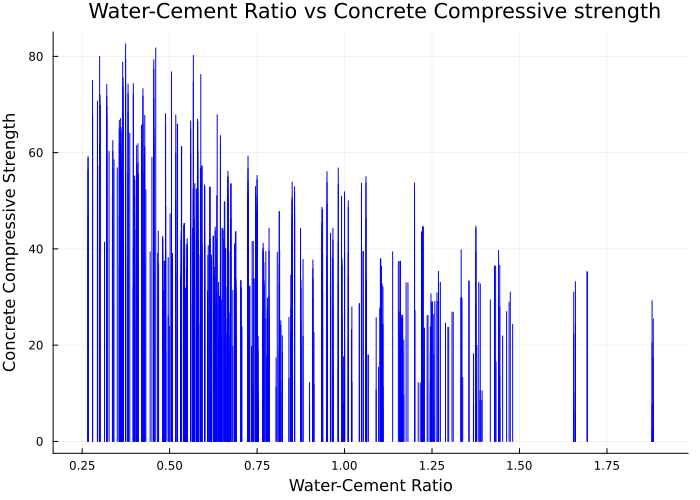
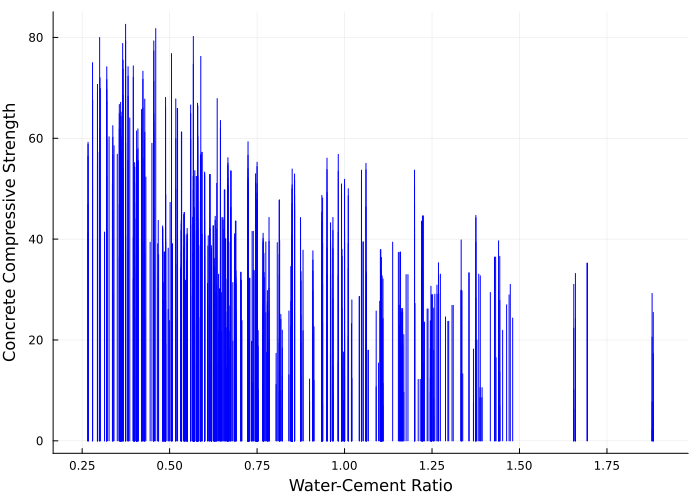
Change the height of the image.

diff --git a/content/01.abstract.md b/content/01.abstract.md
@@ -77,7 +77,7 @@ An important component of most modern concrete mixes, water reducers improve the
 
 In order to study the effect of superplasticizer alone, we kept all the other columns constant and compared the varying superplasticizer with the concrete compressive strength. Figure @fig:plot-2 shows the line plots for different samples. It is not clear how the superplasticizer is affecting the strength. We looked through a number of articles and research papers and we found out that the effect of superplasticizers are more pronounced when the ratio of superplasticizer to cement is between 0.5% to 3% [@{http://www.buildingresearch.com.np/newfeatures.php}]. To verify this, we plotted Figure @fig:plot-3 with two samples, the first one has a superplasticizer/cement(s/c) ratio equal to 0.2% and the second one has s/c ratio equal to 2%.
 
-![Superplasticizer to Water ratio vs Compressive strength of Concrete](images/wspc.png){#fig:plot-3}
+![Superplasticizer to Water ratio vs Compressive strength of Concrete](images/wspc.png){#fig:plot-3 height=2.5in}
 
 We can see that a decrease in the superplasticizer to water ratio results in decrease in the concrete compressive strength. This suggests a positive correlation between the superplasticizer and the concrete strength. However for ratios greater than 3%, we did not find any kind of correlation between these two suggesting that the effect of superplasticizer depends on the s/c ratio.
 
@@ -86,7 +86,7 @@ We can see that a decrease in the superplasticizer to water ratio results in dec
 
 In recent decades, fly ash has become an increasing common component used in concrete mixtures. Fly ash is used to increase the workability of plastic concretes along with increase the strength and durability of regular concretes (Ondova, 2012). Fly ash can also be used to  replace a portion of the amount of the cement mixture needed. This in return reduces the cost while not decreasing the strength. Using our data set we first began by organizing the data set to only include unique values of fly ash since there were many rows that had no fly ash component in their concrete mixture. Then using this data set, we created a histogram to show the general trendline of the imapct that the fly ash component has on the compressive strength. We see that using fly ash does increase the strength of the concrete but peaks at approximately 20 kg per m^3 mixture and then decreases as more fly ash is used. This is mostly due to fly ash not being suitable to replace fully or the majority of the cement used in the mixture and is used more as a binding unit that helps with the workability and durability to a certain degree [@doi:10.1016/j.proeng.2012.07.582].
 
-![Fly Ash vs Concrete Compressive Strength](images/flyash.jpg){#fig:plot-4}
+![Fly Ash vs Concrete Compressive Strength](images/flyash.jpg){#fig:plot-4 height=2in}
 
 
 ### Coarse Aggregate and Fine aggregate
@@ -94,11 +94,11 @@ Aggregates are inert granular materials such as sand, gravel, or crushed stone t
 [@{https://www.cement.org/cement-concrete/concrete-materials/aggregates}].
 
 
-![Coarse Aggregate vs Concrete Compressive Strength](images/ca.png){#fig:plot-5}
+![Coarse Aggregate vs Concrete Compressive Strength](images/ca.png){#fig:plot-5 height=5in}
 
 We can observe from Figure @fig:plot-5 that there is no positive correlation between the coarse aggregate and the concrete compressive strength. We couldn't really understand how to interpret the graph. It's possible that it's effects weren't pronounced in the samples that we have taken. It is clear that we need a more refined model to understand the effects of this property.
 
-![Fine Aggregate vs Concrete Compressive Strength](images/fa.png){#fig:plot-6}
+![Fine Aggregate vs Concrete Compressive Strength](images/fa.png){#fig:plot-6 height=6in}
 Figure @fig:plot-6 shows a positive correlation between the fine aggregate and the concrete compressive strength which is quite intuitive.
 
 For both the graphs, we have kept all the columns constant except for the column that we are analyzing.
@@ -106,7 +106,7 @@ For both the graphs, we have kept all the columns constant except for the column
 
 ### Age
 By creating a histogram plot of Concrete Compressive Strength vs Age where age is the number of days after the concrete has been placed, we see that as concrete age increases the compressive strength increases until it reaches a peak at approximately 28 days and then gradually decreases in strength as age increases due to wear and tear of the concrete material. Looking online we see that concrete requires a curing time where once the concrete is placed it needs time to cure which is where the water content in the concrete mixture evaporates, leading to the concrete to settle and harden (Kim 1998). This in return leads to the strength to increase. Based on this information and looking at the data set, to have the concrete mixture to result in the strongest compressive strength we want our age to be around the 28 day mark which is the ideal curing time.
-![Age vs Concrete Compressive Strength](images/age.jpg){#fig:plot-7}
+![Age vs Concrete Compressive Strength](images/age.jpg){#fig:plot-7 height=3in}
 
 
 ### Blast Furnace Slag
@@ -115,7 +115,7 @@ Concretes containing slag as a partial replacement of cement (up to 40%) had hig
 
 ![Blast Furnace Slag vs Compressive strength of Concrete](images/bfs.png){#fig:plot-8}
 
-Figure @fig:plot-6 shows a negative correlation where the compressive strength of the concrete is decreasing with the increase in the Blast furnace slag content.
+Figure @fig:plot-8 shows a negative correlation where the compressive strength of the concrete is decreasing with the increase in the Blast furnace slag content.
 
 
 ### Concrete Compressive Strength
